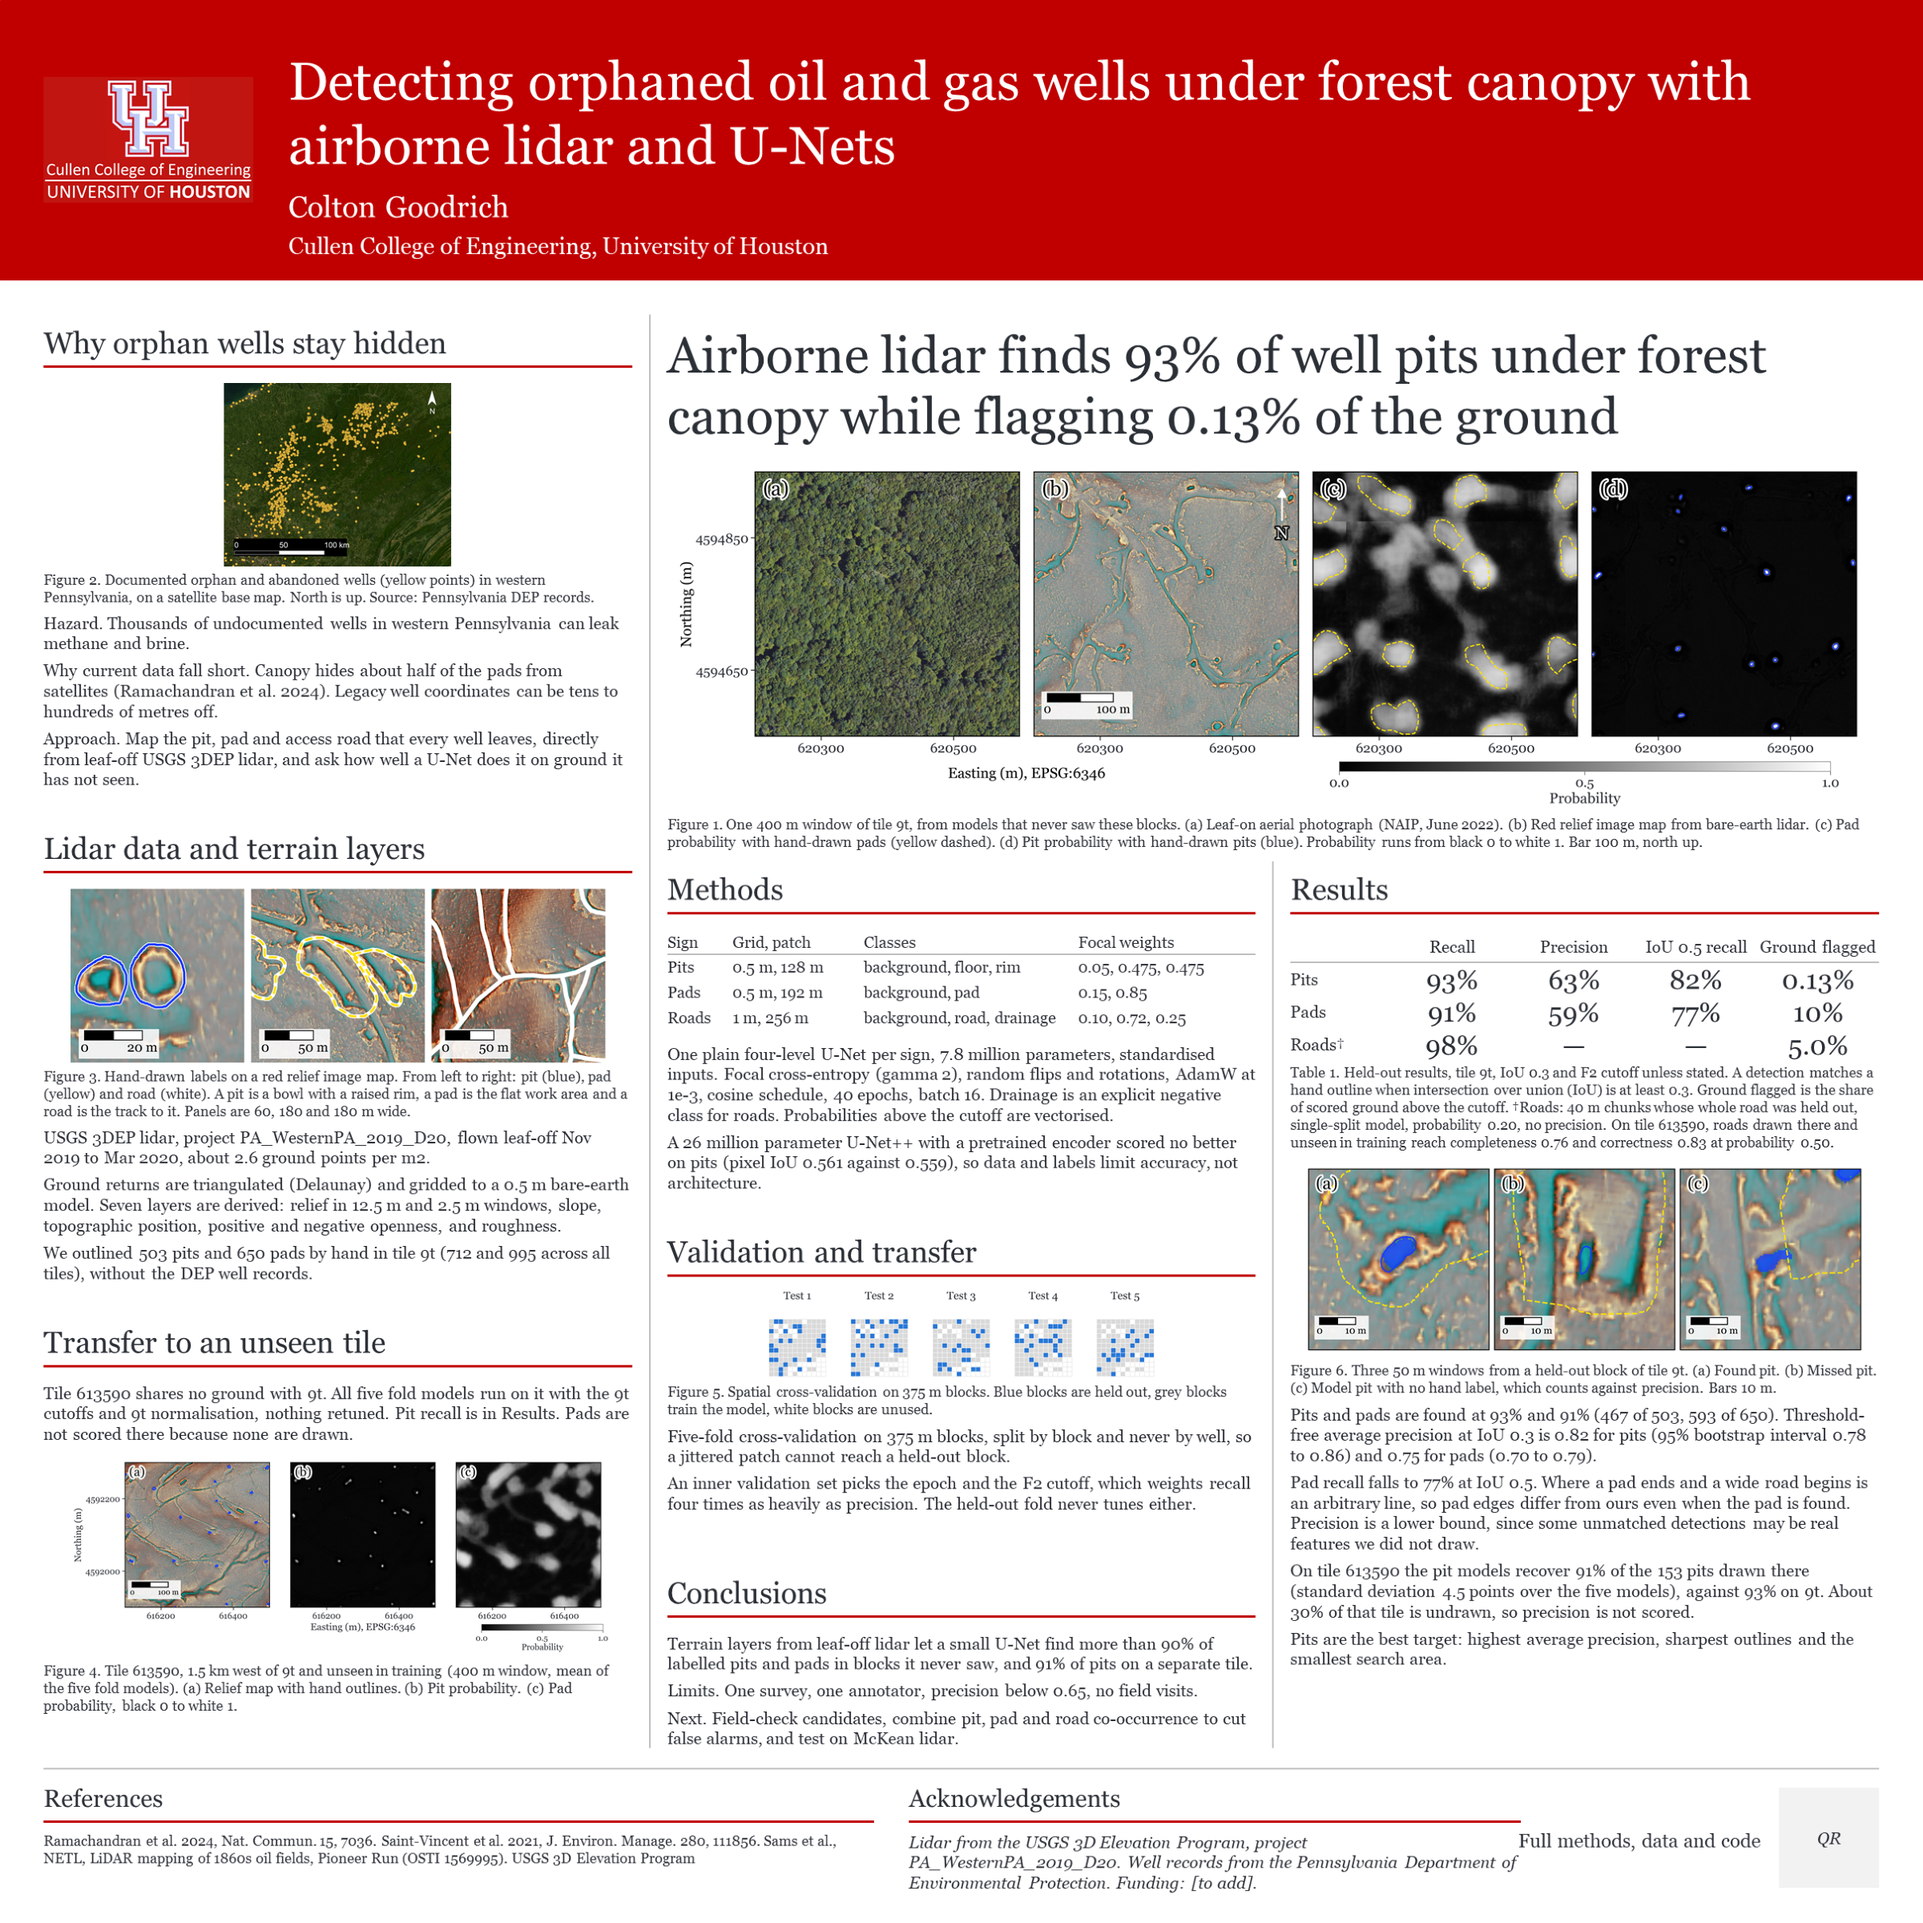
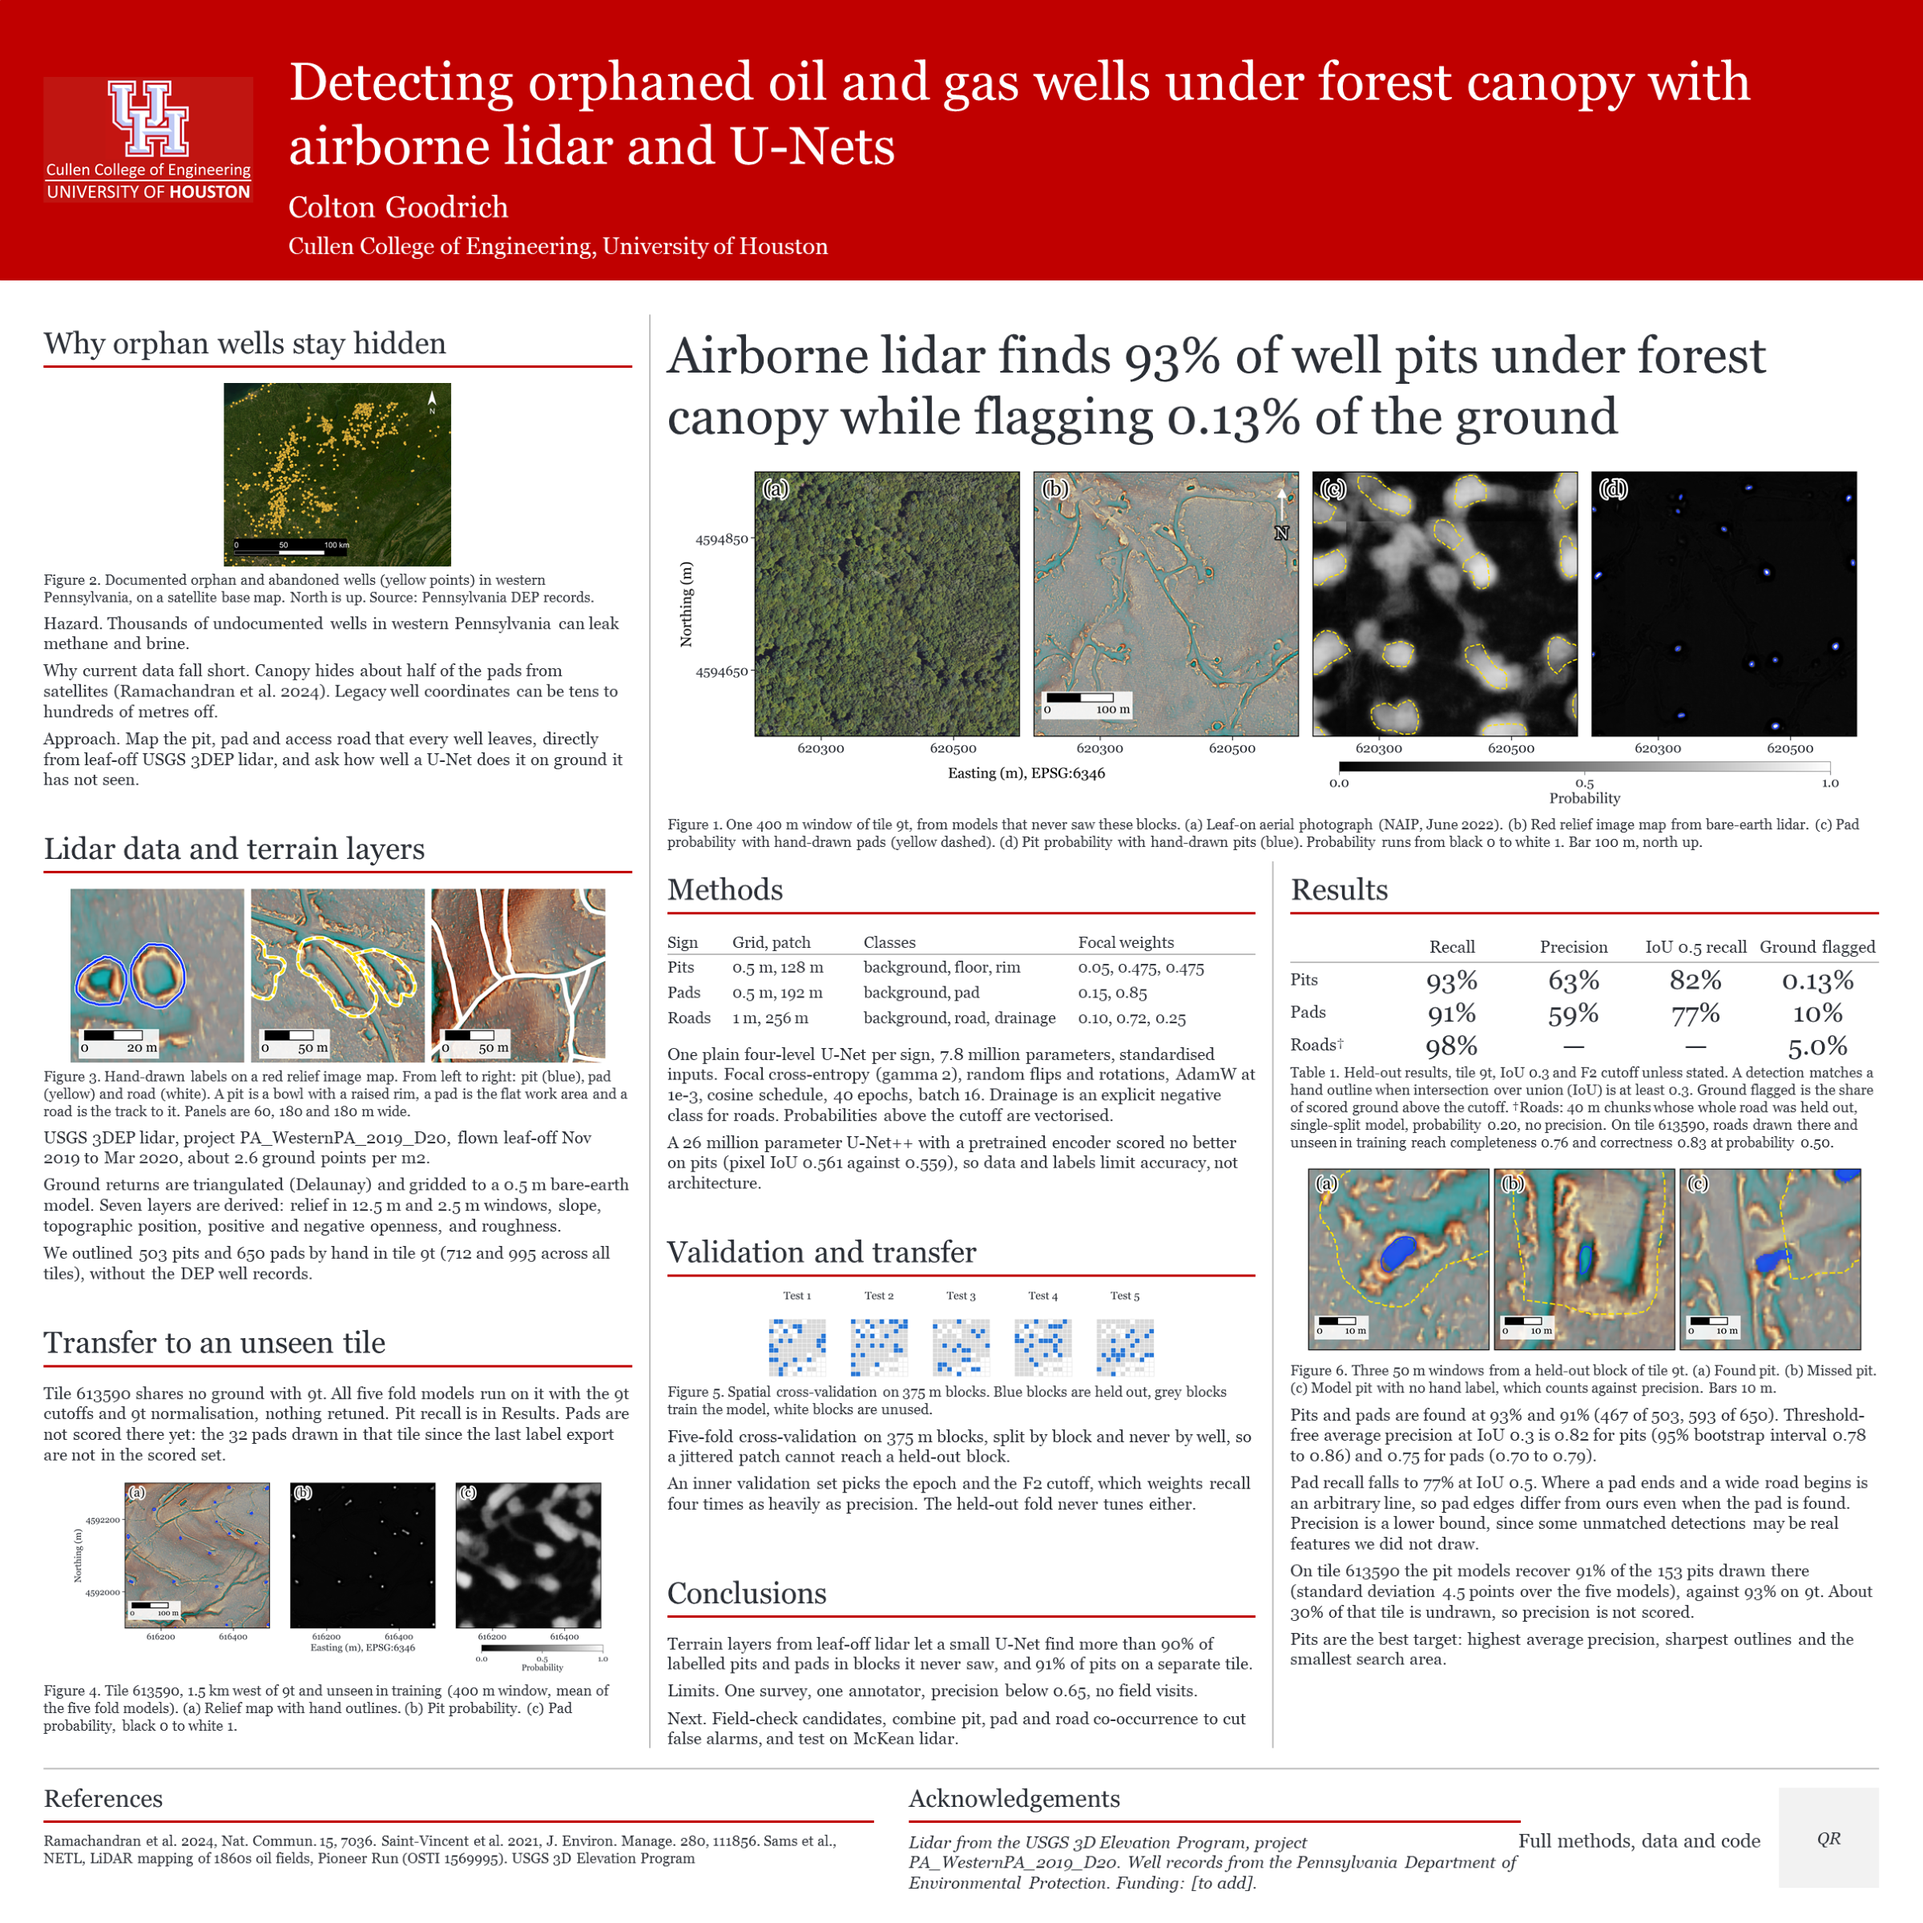
agu poster: correct claim that no pads are drawn on 613590 (pad.shp has 32)

Changed region(s): [[0.0312, 0.7188, 0.3125, 0.9062]]

diff --git a/agu_poster/_make_agu_poster.py b/agu_poster/_make_agu_poster.py
@@ -107,7 +107,7 @@ SECTIONS = [
     ]),
     ("Transfer to an unseen tile", C1, None, [
         ("text", "Tile 613590 shares no ground with 9t. All five fold models run on it with the 9t cutoffs and 9t normalisation, nothing retuned. "
-                 "Pit recall is in Results. Pads are not scored there because none are drawn."),
+                 "Pit recall is in Results. Pads are not scored there yet: the 32 pads drawn in that tile since the last label export are not in the scored set."),
         ("fig", "transfer", 4.6, "Predictions on tile 613590"),
     ]),
     ("Methods", C2, LOWER, [

diff --git a/docs/lidar_methodology_brief.md b/docs/lidar_methodology_brief.md
@@ -49,7 +49,7 @@ Other lidar held (McKean QL1 `PA_Northcentral_2019_B19`, Warren, Permian) is out
 | `pit_inside` | MultiPolygon | 712 | 503 | 153 | pit floor. median 29.1 m2 (p10 15.3, p90 50.8). cols id, pit_inside_id, pad_id |
 | `pit_outside` | Polygon | 723 | 506 | 36 | pit rim outline. median 196.7 m2. cols matched_pit_id, pad_id |
 | `pit_wall` | MultiPolygon | 586 | 503 | 36 | rim ring (outside minus inside). Used as class 2 in the pit label raster |
-| `plat` | MultiPolygon | 995 | 650 | 0 | pad. median 1343 m2 (p10 667, p90 2357). cols pad_id, area_m2, n_pits, n_roads |
+| `plat` | MultiPolygon | 995 | 650 | 0 (but `pad.shp`, saved 2026-10-28, has 1085 rows incl. 32 in 613590 and 90 pads not in `plat`; not yet exported or scored) | pad. median 1343 m2 (p10 667, p90 2357). cols pad_id, area_m2, n_pits, n_roads |
 | `roads` | LineString | 3690 | 1358 | 1490 | median 104 m. col `src` (e.g. `613590_review_r2`, `613590_added_r2`) |
 | `not_roads` | LineString | 112 | 61 | 0 | decoys |
 | `drainage` | LineString | 1791 | 1791 | 0 | 9t only, extracted from DEM then hand-reviewed. cols klass, seg_len_m, xdrop_m |
